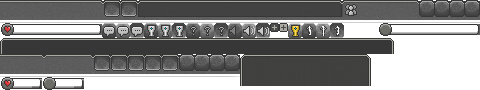
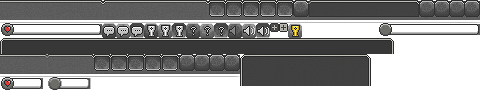
*recreate new menubar with scaling from biggest image

diff --git a/client/css/main.css b/client/css/main.css
@@ -278,6 +278,8 @@ footer div  {display:inline-block;}
 #close-privacy {font-size:20px;margin-top:30px;}
 #toggle-privacy {padding:0 10px;}
 
+#moveRegister {position: absolute;}
+
 .invalid {
     border-color: rgb(166, 0, 0) !important;
 }
@@ -653,7 +655,7 @@ footer div  {display:inline-block;}
     #character.disabled div {opacity:0;pointer-events:none;}
     #parchment input {margin-top:20px; padding:0 10px; border:2px dashed #b2af9b; font-size:20px;border-radius:6px;height:41px;}
     .button {height:102px;width:250px;background-position:-458px -204px;margin:20px auto 0 auto;position:relative;}
-    .button span {line-height: 110px;}
+    .button span {line-height: 115px;}
     .button div {height:102px;width:250px;background-position:-458px 0px;}
     /*.play div {height:102px;width:250px;background-position:-458px 0px;}
     .play div:active {background-position:-209px -306px;}*/
@@ -719,16 +721,16 @@ footer div  {display:inline-block;}
     .bubble p {font-family:"GraphicPixel"; font-size:14px;}
 
     /*GUI Bar*/
-    #bar-container {height:39px;top:-7px;background-size:960px;}
+    #bar-container {height:40px;top:-8px;background-size:960px;}
 
-    #healthbar {height:26px;background-position:0 -44px;width:204px;top:6px;background-size:960px;z-index:20;}
+    #healthbar {height:26px;background-position:0 -46px;width:204px;top:6px;background-size:960px;z-index:20;}
     #hitpoints {width:0px;height:22px;top:8px;left:22px;z-index:10;position:absolute;}
     
-    #manabar {height:26px;background-position:-756px -44px;width:204px;top:6px;left:208px;background-size:960px;z-index:20;}
+    #manabar {height:26px;background-position:-756px -46px;width:204px;top:6px;left:208px;background-size:960px;z-index:20;}
     #manapoints {width:0px;height:22px;top:8px;left:230px;z-index:10;position:absolute;}
     
-    #expbar {height:5px;background-position:0 -39px;width:960px;top:34px;background-size:960px;z-index:20;}
-    #exp {width:0px;height:5px;top:34px;left:0;z-index:10;position:absolute;}
+    #expbar {height:6px;background-position:0 -40px;width:960px;top:34px;background-size:960px;z-index:20;}
+    #exp {width:0px;height:6px;top:34px;left:0;z-index:10;position:absolute;}
 
     #armor, #weapon {width:32px;height:32px;position:absolute;background-size:192px;background-position:-64px;}
     #weapon {left:208px;top:2px;}
@@ -745,21 +747,21 @@ footer div  {display:inline-block;}
     #instance-population {padding-top:12px;}
 
     .barbutton {background-size:960px;height:30px;width:28px;}
-    #chatbutton {background-position:-204px -44px;top:2px;left:840px;}
-    #chatbutton:hover {background-position:-232px -44px;}
-    #chatbutton.active {background-position:-260px -44px;}
-    #achievementsbutton {background-position:-288px -44px;top:2px;left:870px;}
-    #achievementsbutton:hover, #achievementsbutton.blink:hover {background-position:-316px -44px;}
-    #achievementsbutton.blink {background-position:-576px -44px;}
-    #achievementsbutton.active {background-position:-344px -44px;}
-    #helpbutton {background-position:-372px -44px;top:2px;left:900px;}
-    #helpbutton:hover {background-position:-400px -44px;}
-    #helpbutton.active {background-position:-428px -44px;}
-    #mutebutton {background-position:-456px -44px;top:2px;left:930px;}
-    #mutebutton:hover {background-position:-484px -44px;}
-    #mutebutton.active {background-position:-512px -44px;}
+    #chatbutton {background-position:-204px -46px;top:2px;left:840px;}
+    #chatbutton:hover {background-position:-232px -46px;}
+    #chatbutton.active {background-position:-260px -46px;}
+    #achievementsbutton {background-position:-288px -46px;top:2px;left:870px;}
+    #achievementsbutton:hover, #achievementsbutton.blink:hover {background-position:-316px -46px;}
+    #achievementsbutton.blink {background-position:-576px -46px;}
+    #achievementsbutton.active {background-position:-344px -46px;}
+    #helpbutton {background-position:-372px -46px;top:2px;left:900px;}
+    #helpbutton:hover {background-position:-400px -46px;}
+    #helpbutton.active {background-position:-428px -46px;}
+    #mutebutton {background-position:-456px -46px;top:2px;left:930px;}
+    #mutebutton:hover {background-position:-484px -46px;}
+    #mutebutton.active {background-position:-512px -46px;}
 
-    #chatbox {height:32px;width:788px;background-size:960px;background-position:0 -74px;margin-left:-394px;bottom:17px;}
+    #chatbox {height:32px;width:788px;background-size:960px;background-position:0 -76px;margin-left:-394px;bottom:18px;}
     #chatbox.active {bottom:49px;}
     #chatbox input {font-size:14px;background:none;width:90%;border:0;margin-left:2%;padding:8px 0;}
 
@@ -815,6 +817,9 @@ footer div  {display:inline-block;}
 
     #name-tooltip {font-size:14px;width:280px;margin-left:-140px;height:20px;line-height:18px;top:-30px;}
     #name-tooltip:after {bottom:-8px;}
+    
+    #moveRegister {bottom: 50px;right: 50px;}
+    #moveRegister p {font-size: 20px;}
 }
 
 @media screen and (max-width: 1000px) {
@@ -1041,7 +1046,7 @@ footer div  {display:inline-block;}
     #character.disabled div {opacity:0;pointer-events:none;}
     #parchment input {margin-top:10px; padding-bottom:5px; border-bottom:1px dashed #b2af9b; font-size:20px;-moz-animation:none;-webkit-animation:none;-o-animation:none;-ms-animation:none;color:#eee;}
     .button {height:54px;width:204px;background-position:-500px -952px;margin:20px auto 0 auto;position:relative;background-size:844px;}
-    .button span {line-height: 60px;}
+    .button span {line-height: 50px;font-size:20px;}
     .play div {height:54px;width:204px;background-position:-458px -512px; background-size:844px;}
     .play div:active {background-position:0px -1398px;}
     .stroke {text-shadow:1px 1px 0 #373737, 1px -1px 0 #373737, 0 1px 0 #373737, 1px 0 0 #373737, -1px 1px 0 #373737, -1px -1px 0 #373737, 0 -1px 0 #373737, 0 1px 0 #373737, -1px 0 0 #373737;}
@@ -1079,16 +1084,16 @@ footer div  {display:inline-block;}
     #playerimage {display:none;}
 
     /*GUI Bar*/
-    #bar-container {height:39px;top:-7px;background-size:960px;background-position:0 -106px;}
+    #bar-container {height:40px;top:-8px;background-size:960px;background-position:0 -108px;}
 
-    #healthbar {height:26px;background-position:0 -150px;width:92px;top:6px;background-size:960px;z-index:20;}
-    #hitpoints {width:0px;height:22px;top:8px;left:22px;z-index:10;position:absolute;}
+    #healthbar {height:26px;background-position:0 -154px;width:86px;top:6px;left:3px;background-size:960px;z-index:20;}
+    #hitpoints {width:0px;height:22px;top:8px;left:25px;z-index:10;position:absolute;}
 
-    #manabar {height:26px;background-position:-92px -150px;width:92px;top:6px;left:94px;background-size:960px;z-index:20;}
-    #manapoints {width:0px;height:22px;top:8px;left:116px;z-index:10;position:absolute;}
+    #manabar {height:26px;background-position:-96px -154px;width:86px;top:6px;left:97px;background-size:960px;z-index:20;}
+    #manapoints {width:0px;height:22px;top:8px;left:120px;z-index:10;position:absolute;}
     
-    #expbar {height:5px;background-position:0 -145px;width:480px;top:34px;background-size:960px;z-index:20;}
-    #exp {width:0px;height:5px;top:34px;left:0;z-index:10;position:absolute;}
+    #expbar {height:6px;background-position:0 -148px;width:480px;top:34px;background-size:960px;z-index:20;}
+    #exp {width:0px;height:6px;top:34px;left:0;z-index:10;position:absolute;}
     
     #armor, #weapon {width:32px;height:32px;position:absolute;background-size:192px;background-position:-64px;}
     #weapon {left:208px;top:2px;}
@@ -1101,20 +1106,20 @@ footer div  {display:inline-block;}
     #playercount span.count {display:inline;}
 
     .barbutton {background-size:960px;height:30px;width:28px;}
-    #chatbutton {background-position:-204px -44px;top:2px;left:360px;}
-    #chatbutton:hover {background-position:-232px -44px;}
-    #chatbutton.active {background-position:-260px -44px;}
-    #achievementsbutton {background-position:-288px -44px;top:2px;left:390px;}
-    #achievementsbutton:hover, #achievementsbutton.blink {background-position:-316px -44px;}
-    #achievementsbutton.active {background-position:-344px -44px;}
-    #helpbutton {background-position:-372px -44px;top:2px;left:420px;}
-    #helpbutton:hover {background-position:-400px -44px;}
-    #helpbutton.active {background-position:-428px -44px;}
-    #mutebutton {background-position:-456px -44px;top:2px;left:450px;}
-    #mutebutton:hover {background-position:-484px -44px;}
-    #mutebutton.active {background-position:-512px -44px;}
+    #chatbutton {background-position:-204px -46px;top:2px;left:360px;}
+    #chatbutton:hover {background-position:-232px -46px;}
+    #chatbutton.active {background-position:-260px -46px;}
+    #achievementsbutton {background-position:-288px -46px;top:2px;left:390px;}
+    #achievementsbutton:hover, #achievementsbutton.blink {background-position:-316px -46px;}
+    #achievementsbutton.active {background-position:-344px -46px;}
+    #helpbutton {background-position:-372px -46px;top:2px;left:420px;}
+    #helpbutton:hover {background-position:-400px -46px;}
+    #helpbutton.active {background-position:-428px -46px;}
+    #mutebutton {background-position:-456px -46px;top:2px;left:450px;}
+    #mutebutton:hover {background-position:-484px -46px;}
+    #mutebutton.active {background-position:-512px -46px;}
 
-    #chatbox {height:32px;width:480px;background-size:960px;background-position:0 -64px;margin-left:-240px;bottom:2px;}
+    #chatbox {height:32px;width:480px;background-size:960px;background-position:0 -76px;margin-left:-240px;bottom:3px;}
     #chatbox.active {bottom:34px;}
     #chatbox input {font-size:14px;background:none;width:90%;border:0;margin-left:2%;padding:4px 0;}
 
@@ -1141,7 +1146,7 @@ footer div  {display:inline-block;}
     #bubbles {overflow:hidden;}
 
     .intro footer, .intro footer {display:block;}
-    footer {display:none;position:absolute;top:260px;left:0;z-index:9000;height:30px;width:100%;bottom:auto;}
+    footer {display:none;position:absolute;left:0;z-index:9000;height:30px;width:100%;bottom:0;}
     .returning footer, .returning footer {top:300px;}
     #close-legal, #close-privacy {display:none;}
 
@@ -1149,6 +1154,9 @@ footer div  {display:inline-block;}
     #legal p, #privacy p {font-size:12px;width:80%;line-height:14px;}
 
     #name-tooltip {display:none;}
+    
+    #moveRegister {bottom: 30px;right: 50px;}
+    #moveRegister p {font-size: 20px;}
 }
 
 @media screen and (max-width: 800px) and (orientation: portrait) {
